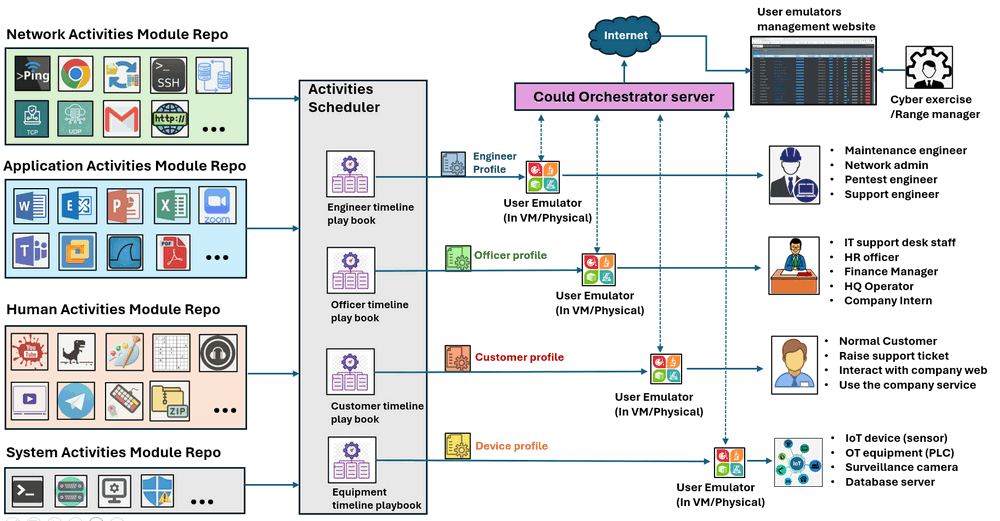
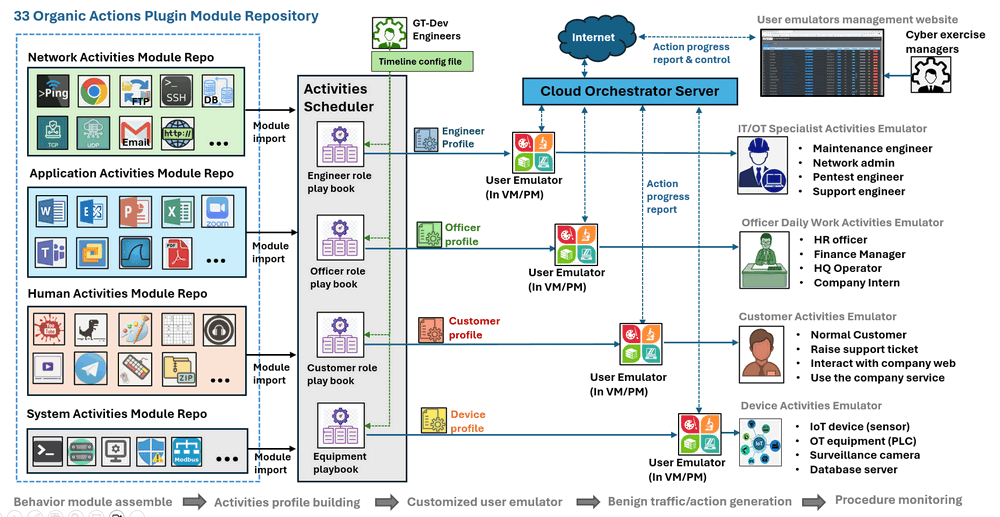
Update the read me file.

diff --git a/README.md b/README.md
@@ -1,10 +1,10 @@
-# Cluster User Emulation System
+# Cluster User Emulation System (CUE)
 
 ![](doc/img/logo.png)
 
-**Project Design Purpose**: Our objective is to develop a distributed, automated, flexible, and reusable toolkit for generating both benign and malicious activities and traffic. This toolkit is designed to fulfill the following requirements:
+**Project Design Purpose**: Our objective is to develop a distributed, automated, flexible and reusable toolkits set for generating both benign and malicious activities and traffic. This toolkit is designed to fulfill the following requirements:
 
-- Simulation of mid size of network with active users (generate human activities) for DFIR.
+- Simulation of a mid size of cluster/network with active users (generate human activities) for Digital Forensics and Incident Response (DFIR). 
 - Simulation of red team attacks or recurrent attack scenarios in cyber exercise/events.
 - Simulation of blue team defense activities or the creation of live honeypots. 
 - Provide real time monitoring and management interface of cyber exercise management team. 
@@ -15,12 +15,12 @@
 By meeting these objectives, our toolkit aims to enhance cybersecurity preparedness, training, and research efforts by providing comprehensive and adaptable functionalities.
 
 ```
-version:     v0.1.6
+version:     v0.2.2
 Copyright:   Copyright (c) 2024 LiuYuancheng
 License:     MIT License   
 ```
 
-
+**Table of Contents**
 
 [TOC]
 
@@ -28,10 +28,10 @@ License:     MIT License
 
 ### Introduction
 
-The Cluster User Emulation system operates within a network/compute cluster environment, simulating multiple users' actions and monitoring their network traffic and local activities. This system serves various purposes, including:
+The Cluster User Emulation System operates within a network/compute cluster environment, simulating multiple users' actions and monitoring their network traffic and activities. This system serves various purposes, including:
 
-- Providing a repository with benign and malicious activities&traffic library module for customers to create customized complex "Human/Hacker" type actions.
-- Providing automatically robotic processes and tasks(RPT) or repeating/replaying specified attacking activities of red team and defense activities of blue team during cyber exercise/event.
+- Providing a library repository with benign and malicious activities&traffic plugin module for customers to create customized complex "Human / Hacker / device" type actions.
+- Providing automatically robotic processes and tasks (RPT) or repeating/replaying specified attacking path/scenario of red team and defense activities of blue team during cyber exercise/event.
 - Generating network traffic flows with different protocols for target system penetration testing, service stress testing or using for network security research projects.
 - Providing the management interface for monitoring and controlling the tasks, processes, network traffic, node activities, and group-users interactive actions.
 - Establishing repeatable test environments for testing and verifying AI/ML trained models.
@@ -40,9 +40,61 @@ With its versatile capabilities, the Cluster User Emulation system proves invalu
 
 #### System Structure 
 
-The Custer User Emulator System contents three main parts, the Activities Generation Modules Repository, the Users Action Emulator and the System Status Orchestrator as shown blow:
+The Custer User Emulator System contents three main parts, the `Activities Generation Modules Repository`, the `Users Action Emulator` and the `System Status Orchestrator` as shown blow:
 
 ![](doc/img/systemStructure.png)
+
+The Activities Generation Modules Repository is a collection of library modules for generating both benign and malicious activities and traffic. The Organic repository comprises 33 different plugin modules and the Malicious repository contains 24 different plugin modules. 
+
+The User Action Emulator serves as the activating agent, utilizing assembled plugin modules from the `Activities Generation Modules Repository` to execute tasks on the target machine according to a user-defined timeline.
+
+The System Orchestrator is a cloud-based server that aggregates all User Action Emulator task execution states and offers a management website interface for users to monitor and manage the User Action Emulators
+
+
+
+------
+
+### Project Design 
+
+This section will introduce the design of system workflow, the design of system execution in the cyber range and the design of the three project main section. 
+
+
+
+#### Design of System Work Flow 
+
+The system workflow consists of five main steps, outlined below:
+
+![](doc/img/systemWorkflow.png)
+
+1. **Behavior Module Assembly**: This step involves gathering library modules from the `Activities Generation Modules Repository` based on the user's configuration file.
+
+2. **Activities Profile Building**: The gathered library modules and playbook files are packaged into a specific format profile, tailored for use by the emulator.
+
+3. **Customized User Emulator**: The profile package is imported to the emulator to create a customized "Role" program, ensuring it behaves according to user specifications.
+
+4. **Activities and Traffic Generation**: Upon execution, the emulator follows the playbook within the profile to generate relevant activities and traffic flow as per the user's requirements.
+
+5. **Procedure Monitoring**: This step involves monitoring the progress of task execution to ensure tasks are carried out efficiently and effectively.
+
+   
+
+##### Benign Activities and Traffic Generation 
+
+The detailed 5 steps workflow of the system generating the benign traffic is shown below:
+
+![](doc/img/workflow.png)
+
+With different playbook and profile config the emulator can act as different type of users and device in a cyber range such as 
+
+IT/OT Specialist: Maintenance engineer, Network admin, Pentest engineer and Support engineer
+
+Company Officer's Daily Work : HR officer Finance Manager, HQ Operator and Company Intern
+
+
+
+
+
+
 
 ##### Activities Generation Modules Repository
 
@@ -67,14 +119,40 @@ These modules offer a comprehensive range of functionalities to support various 
 
 
 
-- **User Action Emulator**: A RPA type scheduler to invoke the lib from action repository to build more complex “Human type” activities and run the tasks based on the users’ timeline playbook configuration.
-- **Scheduler Monitor Hub**: A no-centralized monitor website host which provides plug and play tasks state view function for the customer to monitor and control all/parts of their schedulers in a computers/servers cluster. 
+##### User Action Emulator 
+
+The User Action Emulator serves as the activating agent, utilizing assembled plugin modules from the `Activities Generation Modules Repository` to execute tasks on the target machine according to a user-defined timeline. It consists of two main components module:
+
+- **Activities Scheduler Module**: The Activities Scheduler interprets the user's task timeline configuration and selects plugin modules from the `Activities Generation Modules Repository` based on task type specifications. Subsequently, it constructs a "playbook" to organize the execution sequence of each task according to the scheduled timeline. Once all modules and the playbook are imported, the Activities Scheduler packages them into a single package ( emulator profile ) for execution by the Action Emulator module.
+
+- **Action Emulator Module**: Each Action Emulator instance loads a user profile (generated by the scheduler module) and assumes the role required for simulation. It executes tasks based on the timeline configuration, saving the execution results in emulator local database and updating them to the Orchestrator server for user access. Depending on the timeline configuration, the Action Emulator can generate regular or random human, software, or malware activities and traffic on a daily, weekly, or monthly schedule.
+
+
+
+##### System Orchestrator
+
+The System Orchestrator is a cloud-based server that aggregates all User Action Emulator task execution states and offers a management website interface for users to monitor and manage the User Action Emulators. The Orchestrator provides two distinct web interfaces:
+
+- **Emulator Procedure Management Interface**: This web dashboard displays comprehensive information about all connected emulators, including their current state and task details. Users can efficiently oversee the execution of tasks across multiple emulators from this interface.
+- **Malware Command and Control Interface**: This web dashboard presents the task execution states of all connected malware instances and offers a web API for the red team to dynamically control the malware. This interface empowers red team members with the flexibility to manage malware operations effectively in real-time.
+
+ 
+
+------
+
+ 
 
 
 
 
 
-![](doc/img/workflow.png)
+
+
+
+
+
+
+
 
 
 
